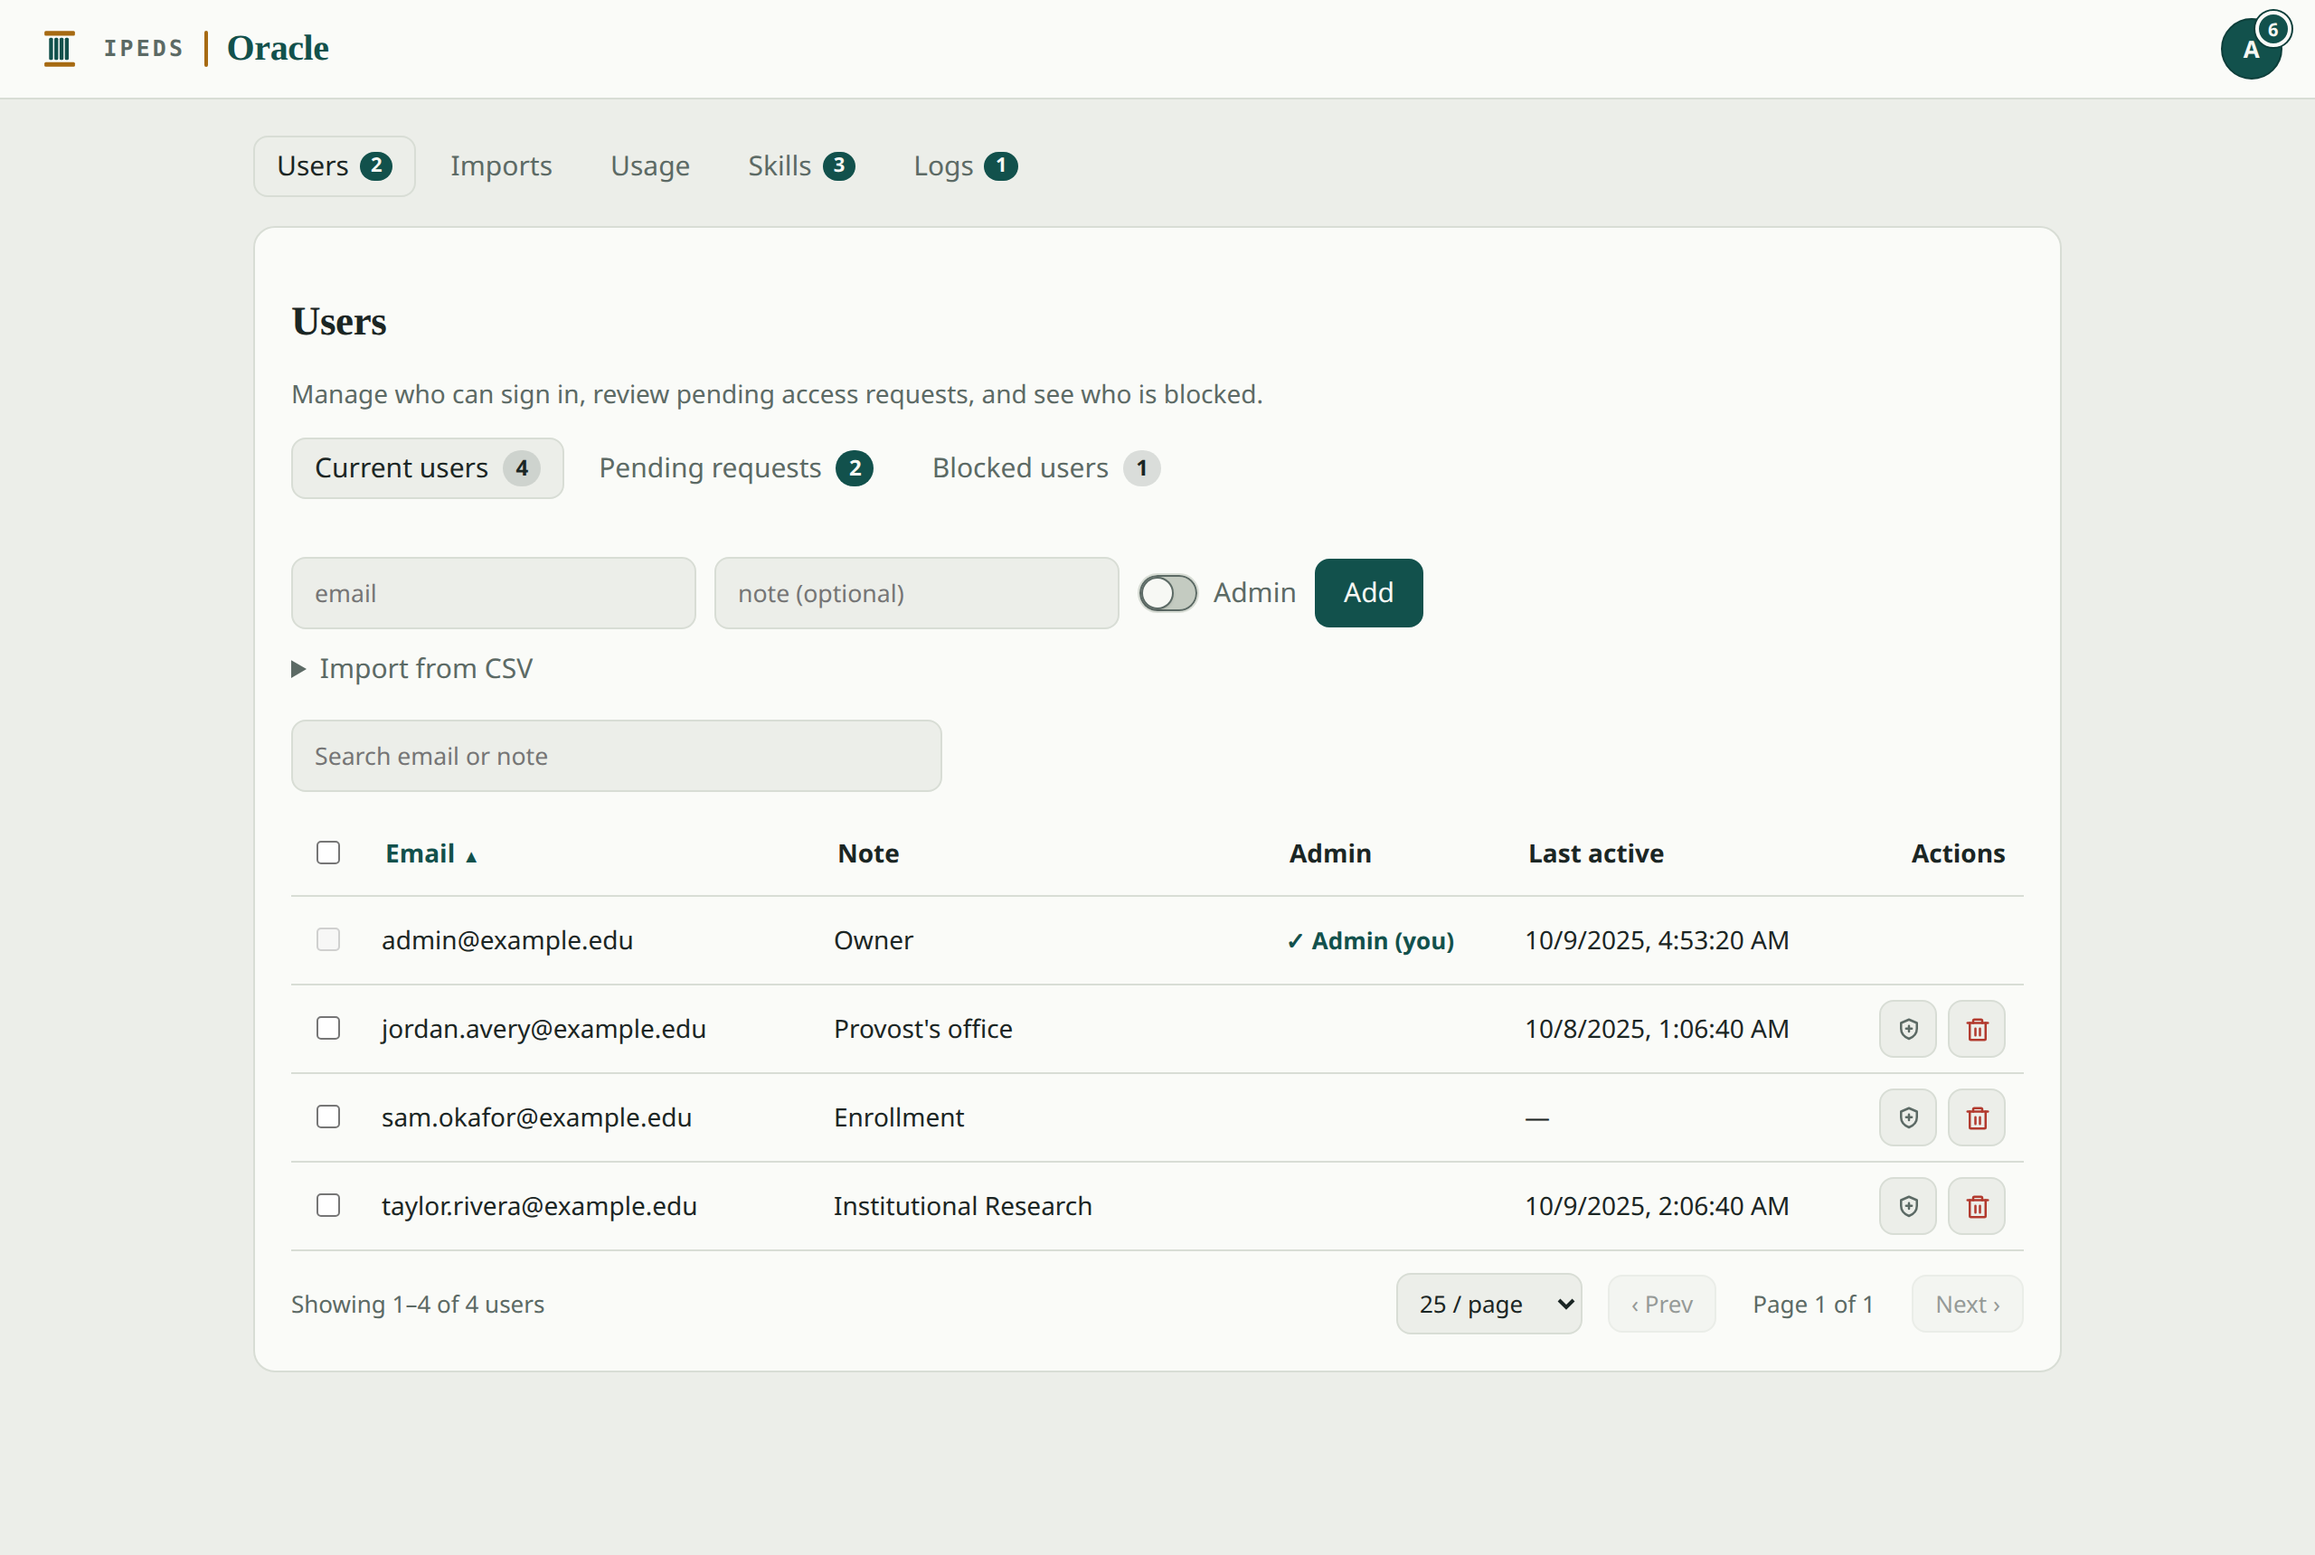
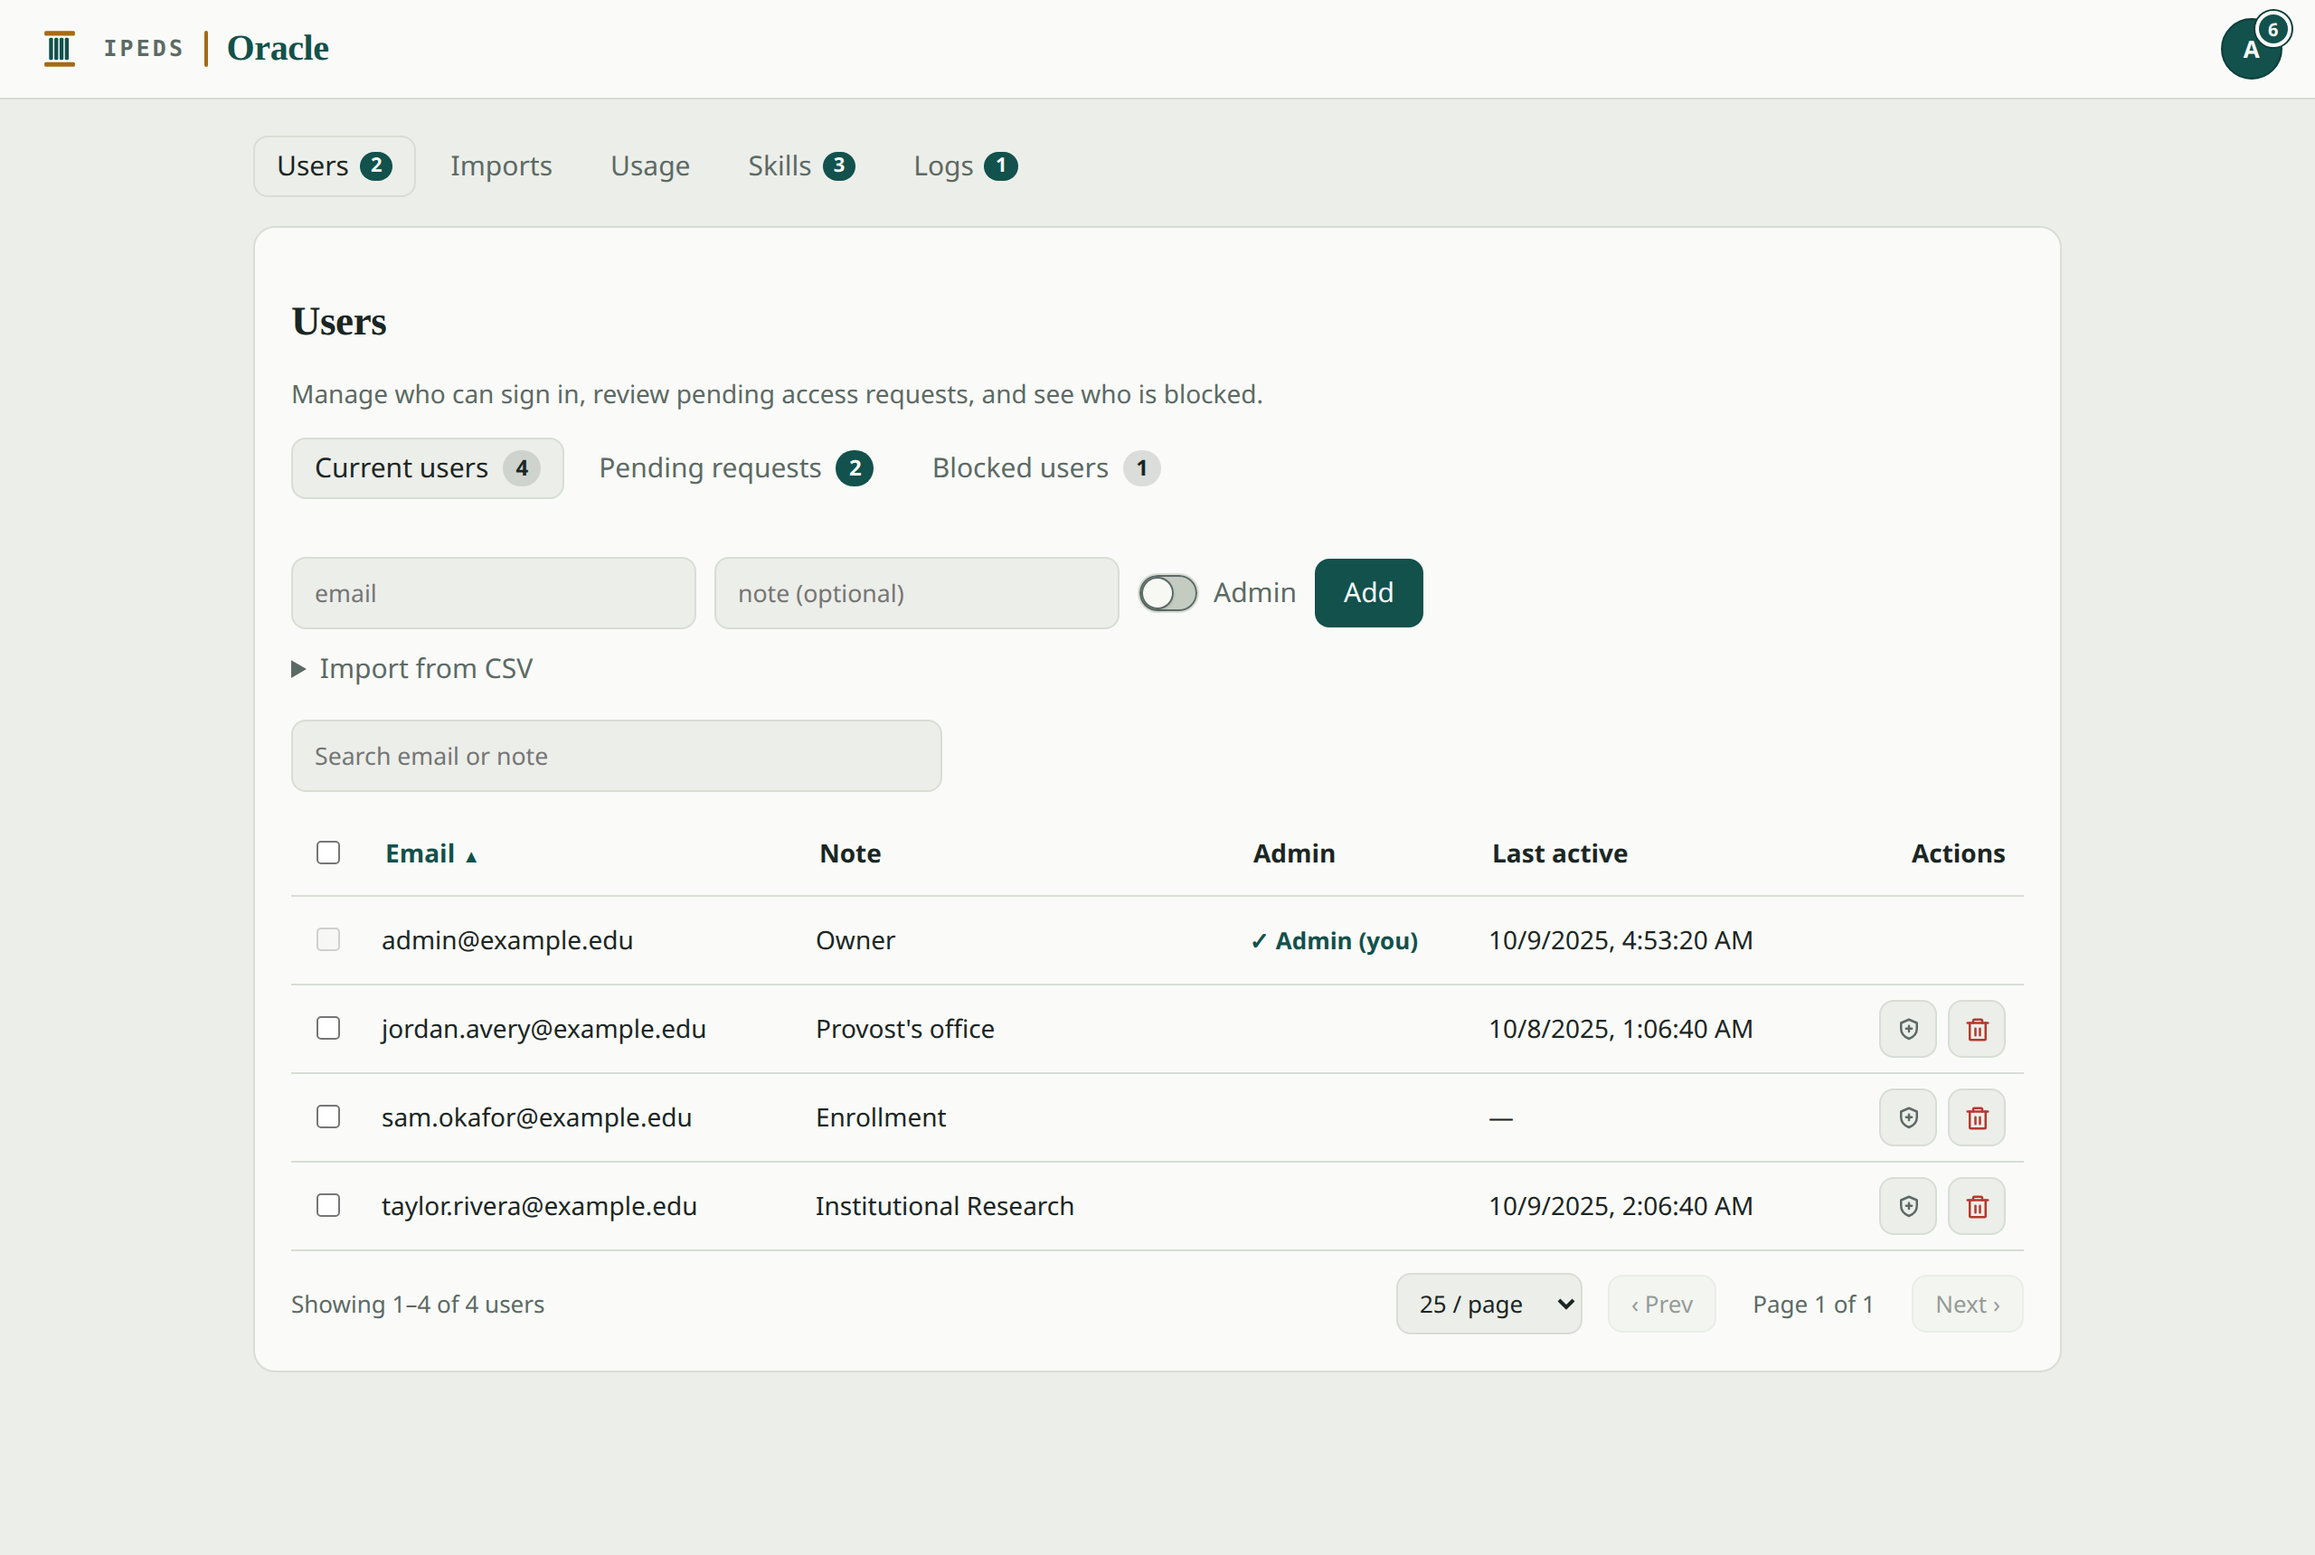
fix(admin): keep the Last active timestamp on one line
CI's Playwright e2e went red on a test this change never touched: the Users
pagination spec asserts the table is the SAME height (to the pixel) on a
short padded last page as on a full one, and it saw 1290 vs 1370 -- 80px
over 20 rows, i.e. real rows rendering 4px taller than filler rows.

The Last active cell was wrapping. Measured: the widest ordinary en-US
timestamp ("12/31/2023, 11:59:59 PM") is 174px of text + 20px of cell
padding = 194px, in a column set to 190px. So the column never had slack --
my fixture just happened to use a November afternoon (155px), which fit. The
Playwright container's fallback font is wider than a dev box's system-ui, so
the same fixture fit locally and wrapped there.

The fix is nowrap (via the table's existing cell-trunc idiom), not merely
more width. A timestamp is one atomic value that should never break across
lines, and nowrap makes row height independent of font metrics and locale
format -- a width-only fix stays a race that a wider locale (de-DE, en-GB)
or another platform's fonts would eventually win. The 210px width is what
keeps the ellipsis from showing in the ordinary case.

Adds a direct regression test, because the existing coverage was the wrong
shape: the pagination spec catches this only once a real row outgrows a
filler row, which is font-dependent, so it was green locally and red only
after the push -- invisible exactly where it needed to be seen. The new test
[…]

diff --git a/frontend/e2e/users-table.spec.js b/frontend/e2e/users-table.spec.js
@@ -157,6 +157,33 @@ test("pagination pages through and disables Prev/Next at the ends", async ({ pag
   expect((await table.boundingBox()).height).toBe(fullHeight);
 });
 
+// The pagination test above caught this, but only on CI: it compares a full page
+// against a padded one, so it goes red only once a REAL row outgrows a filler
+// row — and whether the timestamp wraps depends on the font, so the same fixture
+// fit on a dev box and wrapped in the Playwright container. That is the worst
+// shape of failure: invisible locally, red only after the push.
+//
+// This pins the mechanism directly and deterministically, with the widest
+// ordinary en-US timestamp (measured: 174px of text + 20px padding = 194px, which
+// is why the first attempt at 190px overflowed). It fails on ANY machine if the
+// cell is allowed to wrap.
+test("a wide timestamp never wraps the Last active cell taller than one row", async ({ page }) => {
+  // 12/31, 11:59:59 PM — two-digit everything, the widest en-US rendering.
+  const widest = Math.floor(new Date("2023-12-31T23:59:59").getTime() / 1000);
+  await openUsers(page, [
+    { email: "a@example.edu", note: "n", is_admin: false,
+      last_login: widest, last_active: widest },
+  ]);
+
+  const cell = page.locator("#userpanel-current tbody tr td").nth(4);
+  await expect(cell).toHaveText(/2023/);
+  // One row, at the table's uniform 49px. A wrapped two-line cell exceeds it.
+  expect((await cell.boundingBox()).height).toBe(49);
+  // And the cause, asserted directly rather than inferred from the height: the
+  // cell must be nowrap, so no font or locale can make it wrap.
+  expect(await cell.evaluate((el) => globalThis.getComputedStyle(el).whiteSpace)).toBe("nowrap");
+});
+
 test("changing page size returns to page 1 and resizes the window", async ({ page }) => {
   await openUsers(page, bulkRows(30));
   await page.getByRole("button", { name: "Next page" }).click();

diff --git a/frontend/src/styles.css b/frontend/src/styles.css
@@ -1472,10 +1472,20 @@ h1, h2, h3, .md h1, .md h2, .md h3 {
    short columns get explicit widths; Email + Note split the rest and truncate. */
 .grid.data { table-layout: fixed; }
 .grid.data .col-admin { width: 132px; }
-/* Last active carries a date AND a time ("7/27/2026, 2:47:03 PM"), which the
-   116px the date alone needed cannot hold. Email/Note split whatever is left
-   and truncate, so the extra width comes out of them, not out of the layout. */
-.grid.data .col-active { width: 190px; }
+/* Last active carries a date AND a time ("12/31/2023, 11:59:59 PM"), which the
+   116px the date alone needed cannot hold. Measured: the widest en-US rendering
+   is 174px of text + 20px cell padding = 194px, so 190px overflowed and the cell
+   (white-space:normal) WRAPPED to two lines, growing the row past its 49px floor.
+   That broke the pagination test's pixel-exact height invariant on CI only — the
+   container's fallback font is wider than a dev box's system-ui, so the same
+   fixture fit locally and wrapped there.
+   The cell also carries `cell-trunc` (nowrap + ellipsis), which is the load-bearing
+   half: a timestamp is one atomic value and must never break across lines, and
+   nowrap makes the row height independent of font metrics and locale format
+   entirely, rather than leaving it a width race this width alone would keep
+   losing in a wider locale (de-DE, en-GB) or on another platform's fonts. The
+   width is what keeps the ellipsis from ever showing in the ordinary case. */
+.grid.data .col-active { width: 210px; }
 .grid.data .col-actions { width: 96px; }
 .grid.data td.cell-trunc { overflow: hidden; text-overflow: ellipsis; white-space: nowrap; }
 /* Keep "✓ Admin (you)" on one line so it can't wrap the row taller than one line. */

diff --git a/frontend/src/admin/Allowlist.jsx b/frontend/src/admin/Allowlist.jsx
@@ -945,7 +945,12 @@ jamie@example.com,External reviewer,`}</pre>
           // ago and has been asking questions since reads as current. Rendered
           // through the shared fmtDateTime (date + time, viewer locale, "—" on
           // null) — the date alone couldn't answer "are they using it today?".
+          // cell-trunc (nowrap + ellipsis) is not cosmetic here: a timestamp is
+          // one atomic value, and letting it wrap grows the row past its 49px
+          // floor, which breaks the pixel-exact pagination height invariant on
+          // whichever font happens to be wider. See .col-active in styles.css.
           { key: "last_active", label: "Last active", sortable: true, colClass: "col-active",
+            cellClass: "cell-trunc", cellTitle: (r) => fmtDateTime(r.last_active),
             render: (r) => fmtDateTime(r.last_active) },
         ]}
         renderActions={(r) => {
